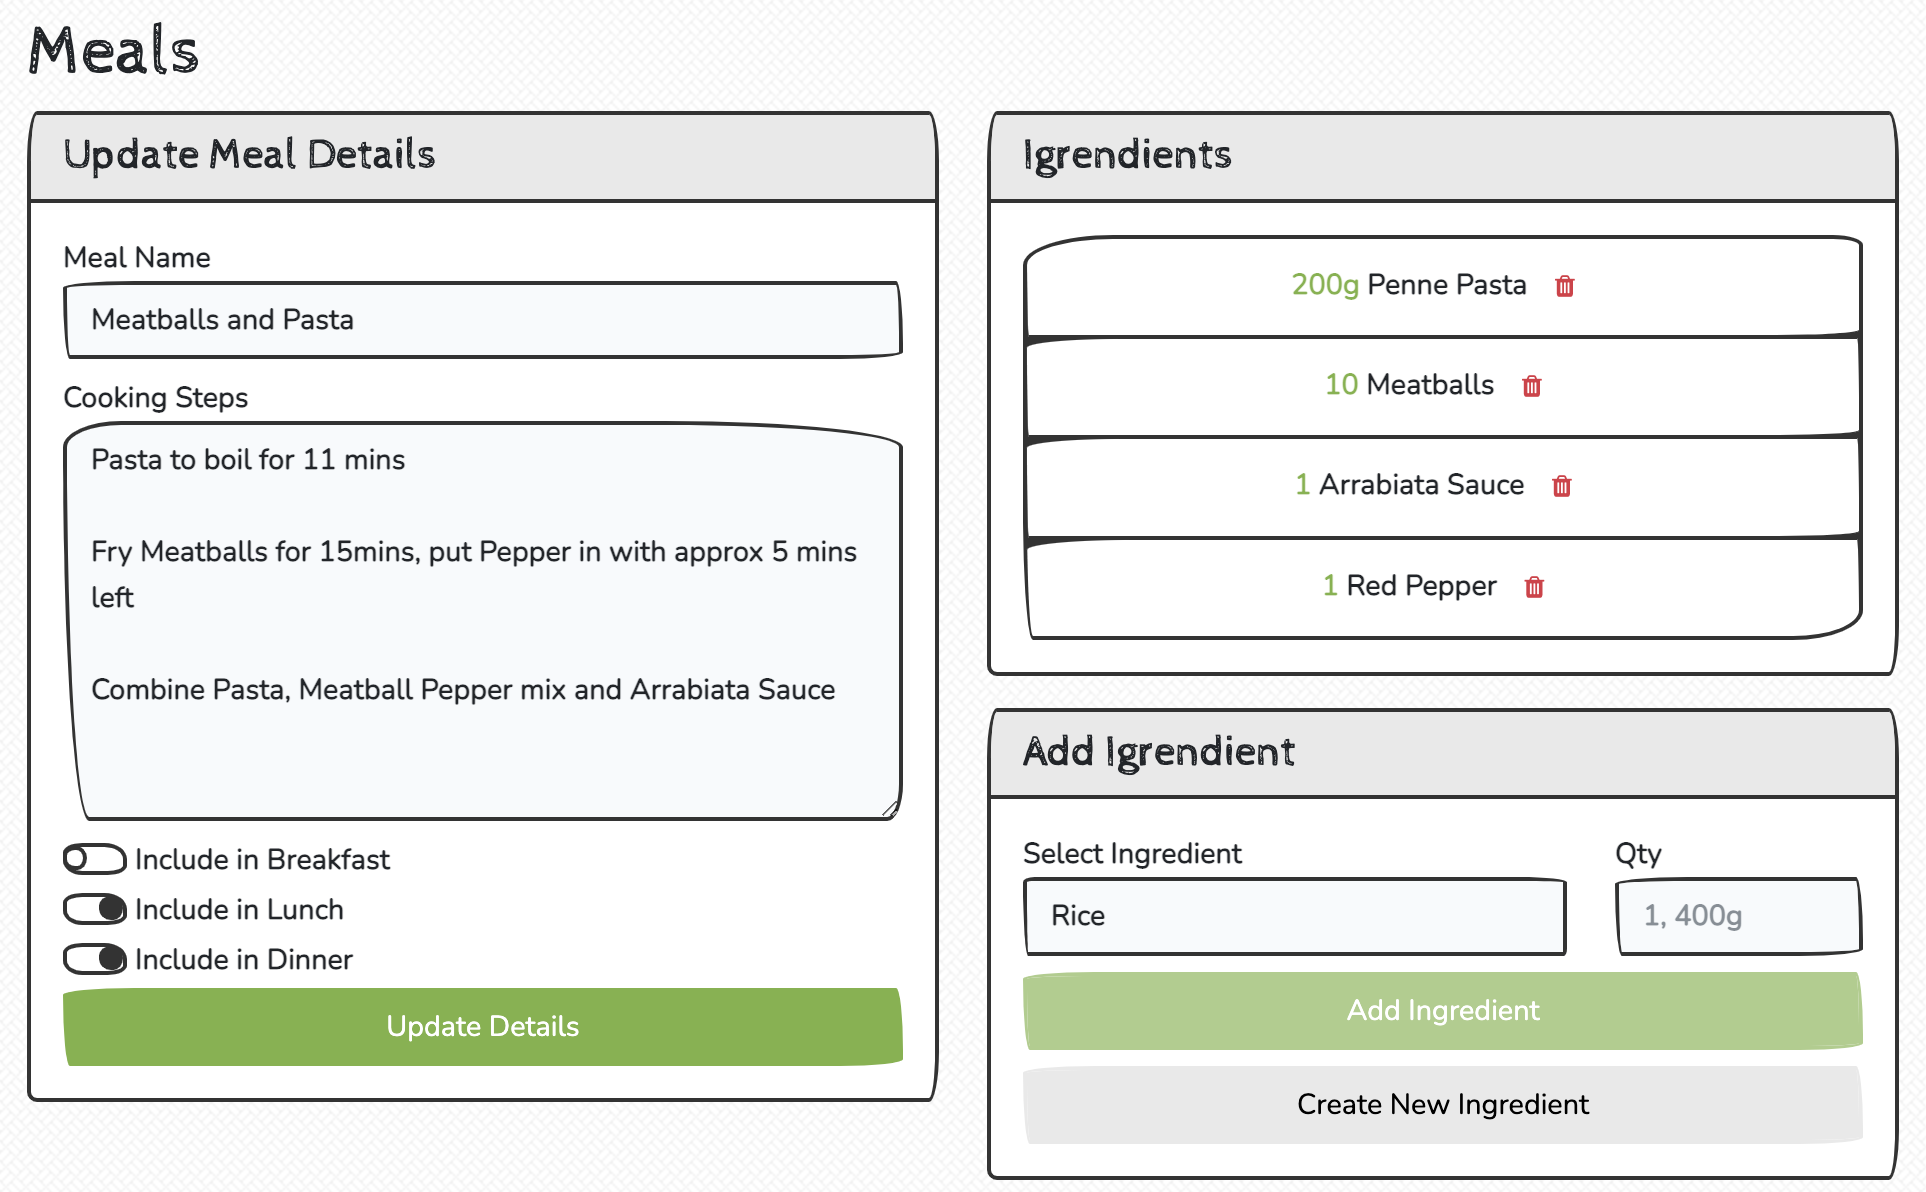
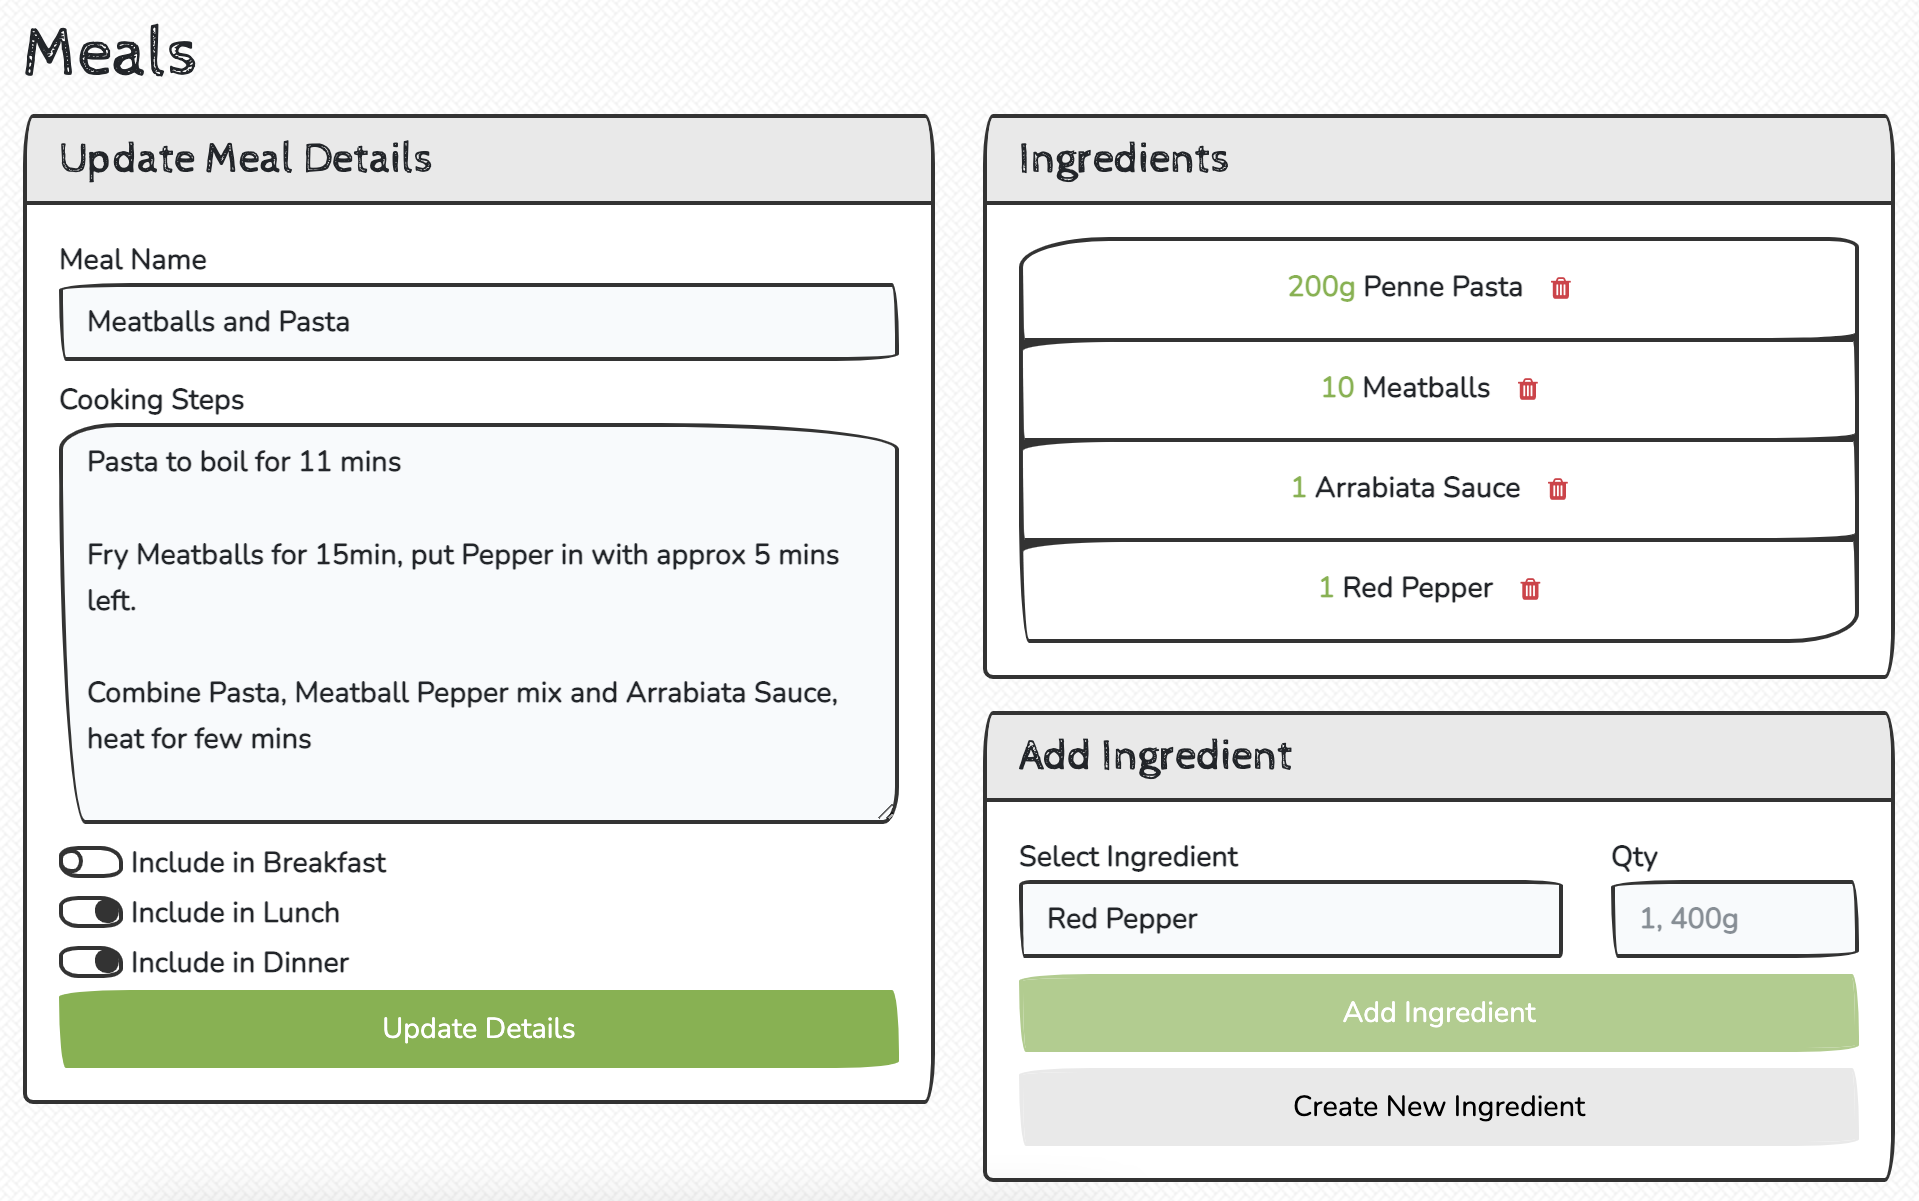
updated images, typos fixed

diff --git a/public/js/app.js b/public/js/app.js
@@ -28915,7 +28915,7 @@ var render = function () {
     [
       _c("div", { staticClass: "card mb-3" }, [
         _c("div", { staticClass: "card-header bg-secondary h4" }, [
-          _vm._v("Igrendients"),
+          _vm._v("Ingredients"),
         ]),
         _vm._v(" "),
         _c("div", { staticClass: "card-body" }, [
@@ -28971,7 +28971,7 @@ var render = function () {
       _vm._v(" "),
       _c("div", { staticClass: "card mb-3" }, [
         _c("div", { staticClass: "card-header bg-secondary h4" }, [
-          _vm._v("Add Igrendient"),
+          _vm._v("Add Ingredient"),
         ]),
         _vm._v(" "),
         _c("div", { staticClass: "card-body" }, [
@@ -29102,7 +29102,7 @@ var render = function () {
       this.showCreateIngredient
         ? _c("div", { staticClass: "card mb-3" }, [
             _c("div", { staticClass: "card-header bg-secondary h4" }, [
-              _vm._v("Create New Igrendient"),
+              _vm._v("Create New Ingredient"),
             ]),
             _vm._v(" "),
             _c("div", { staticClass: "card-body" }, [

diff --git a/resources/js/components/IngredientPicker.vue b/resources/js/components/IngredientPicker.vue
@@ -2,7 +2,7 @@
   <div>
     <!-- Ingredients -->
     <div class="card mb-3">
-      <div class="card-header bg-secondary h4">Igrendients</div>
+      <div class="card-header bg-secondary h4">Ingredients</div>
       <div class="card-body">
         <div
           v-if="this.mealsIngredientsList.length < 1"
@@ -33,7 +33,7 @@
 
     <!-- Add Ingredient -->
     <div class="card mb-3">
-      <div class="card-header bg-secondary h4">Add Igrendient</div>
+      <div class="card-header bg-secondary h4">Add Ingredient</div>
       <div class="card-body">
         <div class="row">
           <div class="col-md-8">
@@ -94,7 +94,7 @@
 
     <!-- Create Ingredient -->
     <div class="card mb-3" v-if="this.showCreateIngredient">
-      <div class="card-header bg-secondary h4">Create New Igrendient</div>
+      <div class="card-header bg-secondary h4">Create New Ingredient</div>
       <div class="card-body">
         <div class="form-group">
           <label for="ingredientName">Ingredient Name</label>
